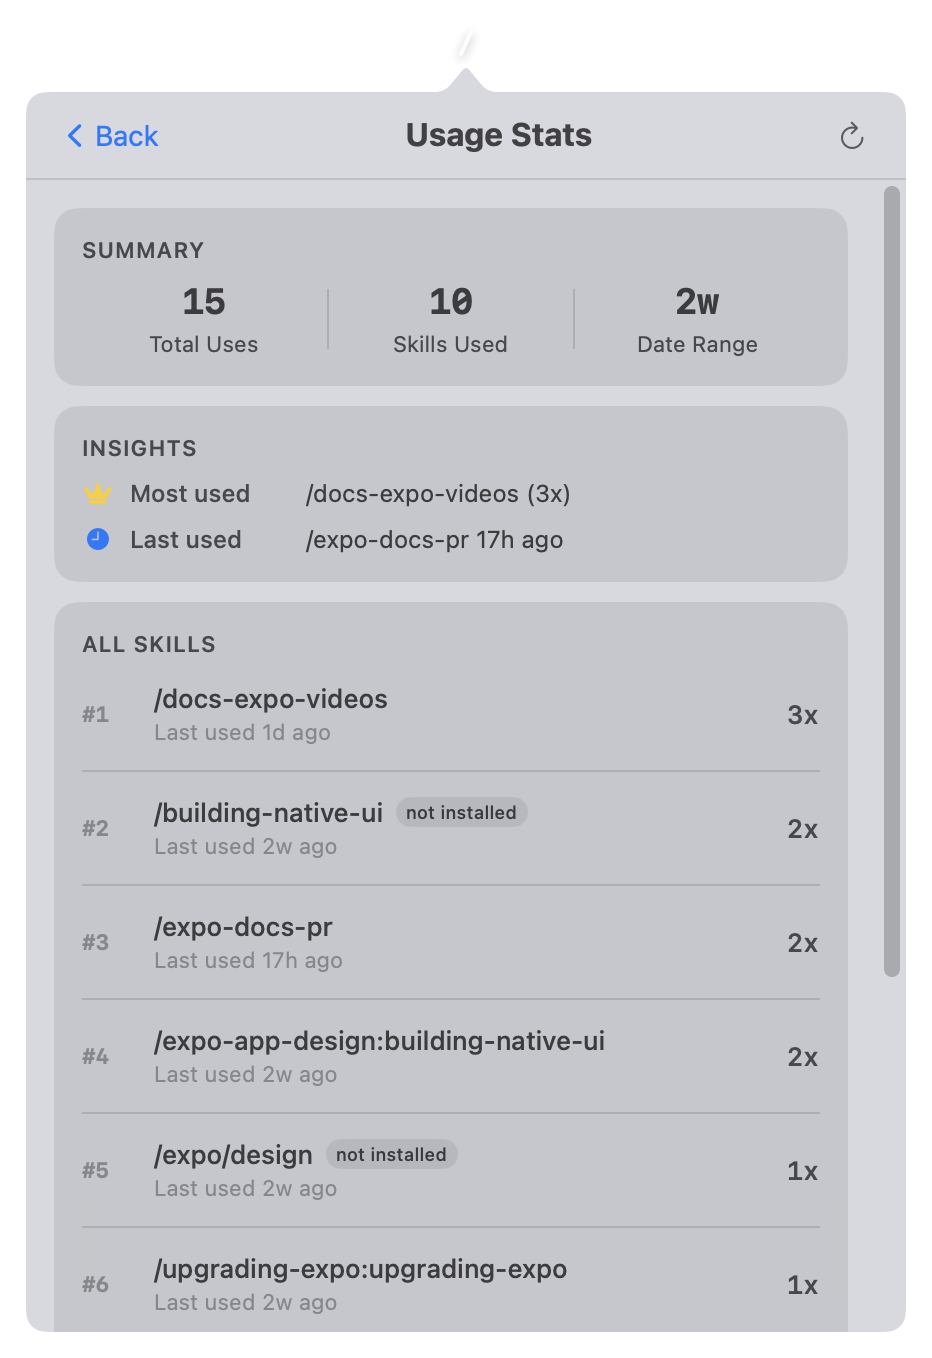
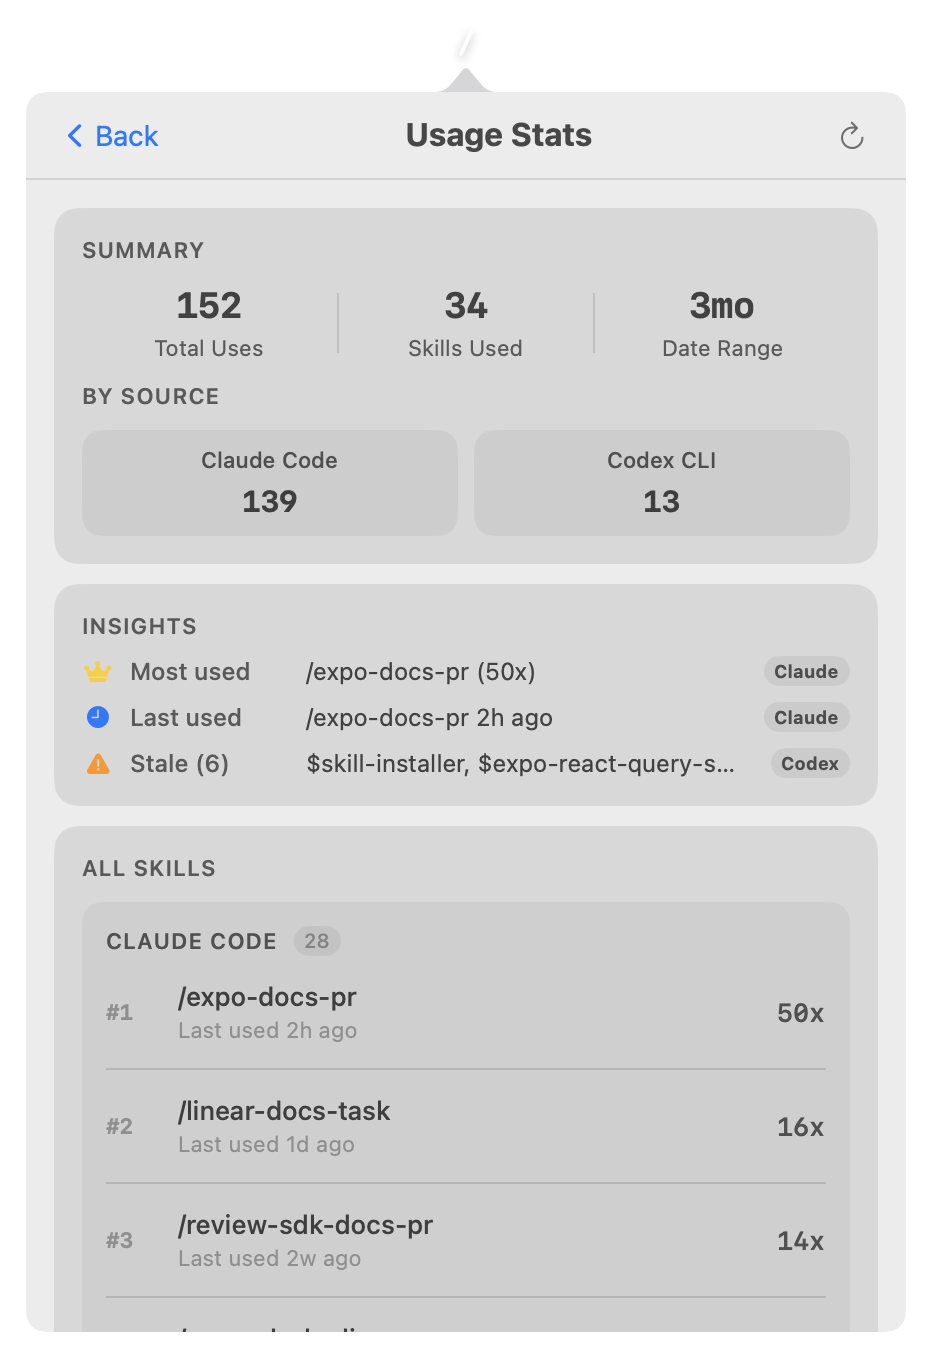
Improve Usage Stats with Codex tracking and retained history and update docs

diff --git a/SkillsBar/Views/UsageStatsView.swift b/SkillsBar/Views/UsageStatsView.swift
@@ -104,12 +104,14 @@ struct UsageStatsView: View {
             }
 
             if !usageTracker.sourcesWithStats.isEmpty {
+                Text("BY SOURCE")
+                    .font(.system(size: 11, weight: .semibold))
+                    .foregroundStyle(.secondary)
+                    .tracking(0.5)
+
                 HStack(spacing: 8) {
                     ForEach(usageTracker.sourcesWithStats, id: \.self) { source in
-                        sourcePill(
-                            label: source.displayName,
-                            value: "\(usageTracker.totalInvocations(for: source))"
-                        )
+                        sourceSummaryItem(source)
                     }
                 }
             }
@@ -211,12 +213,8 @@ struct UsageStatsView: View {
                 .foregroundStyle(.secondary)
                 .tracking(0.5)
 
-            ForEach(Array(usageTracker.sourcesWithStats.enumerated()), id: \.element) { index, source in
-                if index > 0 {
-                    Divider()
-                        .padding(.vertical, 2)
-                }
-                sourceSection(source)
+            ForEach(usageTracker.sourcesWithStats, id: \.self) { source in
+                sourceSectionCard(source)
             }
         }
         .padding(14)
@@ -225,12 +223,20 @@ struct UsageStatsView: View {
         .clipShape(RoundedRectangle(cornerRadius: cardRadius))
     }
 
+    private func sourceSectionCard(_ source: UsageSource) -> some View {
+        VStack(alignment: .leading, spacing: 0) {
+            sourceSection(source)
+        }
+        .padding(12)
+        .background(Color.primary.opacity(0.05))
+        .clipShape(RoundedRectangle(cornerRadius: 10))
+    }
+
     private func sourceSection(_ source: UsageSource) -> some View {
         let stats = usageTracker.rankedStats(for: source)
         let visibleStats = Array(stats.prefix(maxDisplayedSkillsPerSource))
-        let hiddenCount = max(0, stats.count - visibleStats.count)
 
-        return VStack(alignment: .leading, spacing: 6) {
+        return VStack(alignment: .leading, spacing: 8) {
             HStack(spacing: 8) {
                 Text(source.displayName.uppercased())
                     .font(.system(size: 11, weight: .semibold))
@@ -250,13 +256,6 @@ struct UsageStatsView: View {
                     Divider()
                 }
                 rankedRow(stat: stat, index: index + 1)
-            }
-
-            if hiddenCount > 0 {
-                Text("Showing top \(maxDisplayedSkillsPerSource). \(hiddenCount) more hidden.")
-                    .font(.system(size: 11))
-                    .foregroundStyle(.tertiary)
-                    .padding(.top, 2)
             }
         }
     }
@@ -312,17 +311,19 @@ struct UsageStatsView: View {
         .frame(maxWidth: .infinity)
     }
 
-    private func sourcePill(label: String, value: String) -> some View {
-        HStack(spacing: 6) {
-            Text(label)
+    private func sourceSummaryItem(_ source: UsageSource) -> some View {
+        VStack(spacing: 4) {
+            Text(source.displayName)
                 .font(.system(size: 11, weight: .medium))
-            Text(value)
-                .font(.system(size: 11, weight: .bold, design: .monospaced))
+                .foregroundStyle(.secondary)
+            Text("\(usageTracker.totalInvocations(for: source))")
+                .font(.system(size: 15, weight: .bold, design: .monospaced))
+                .foregroundStyle(.primary)
         }
-        .padding(.horizontal, 8)
-        .padding(.vertical, 5)
+        .frame(maxWidth: .infinity)
+        .padding(.vertical, 8)
         .background(Color.primary.opacity(0.06))
-        .clipShape(Capsule())
+        .clipShape(RoundedRectangle(cornerRadius: 10))
     }
 
     private func sourceTag(_ source: UsageSource) -> some View {

diff --git a/README.md b/README.md
@@ -34,7 +34,7 @@
 - **Search** - filter skills by name or description
 - **Pin favorites** - pin frequently used skills to the top of each tab (persisted across restarts)
 - **Sort options** - sort skills by A-Z, Recently Modified, or Most Used (persisted across restarts)
-- **Usage stats** - tracks skill invocations from Claude Code session transcripts with insights, ranked list, and per-skill usage cards
+- **Usage stats** - tracks skill invocations from Claude Code and Codex CLI history with source-aware insights, summary breakdowns, and ranked per-skill usage sections
 - **"New" indicator** - skills modified in the last 24 hours are marked with a blue badge
 - **Detail view** - metadata badges, description, trigger command with copy button, file listing
 - **Full content preview** - expandable section to view the raw SKILL.md body
